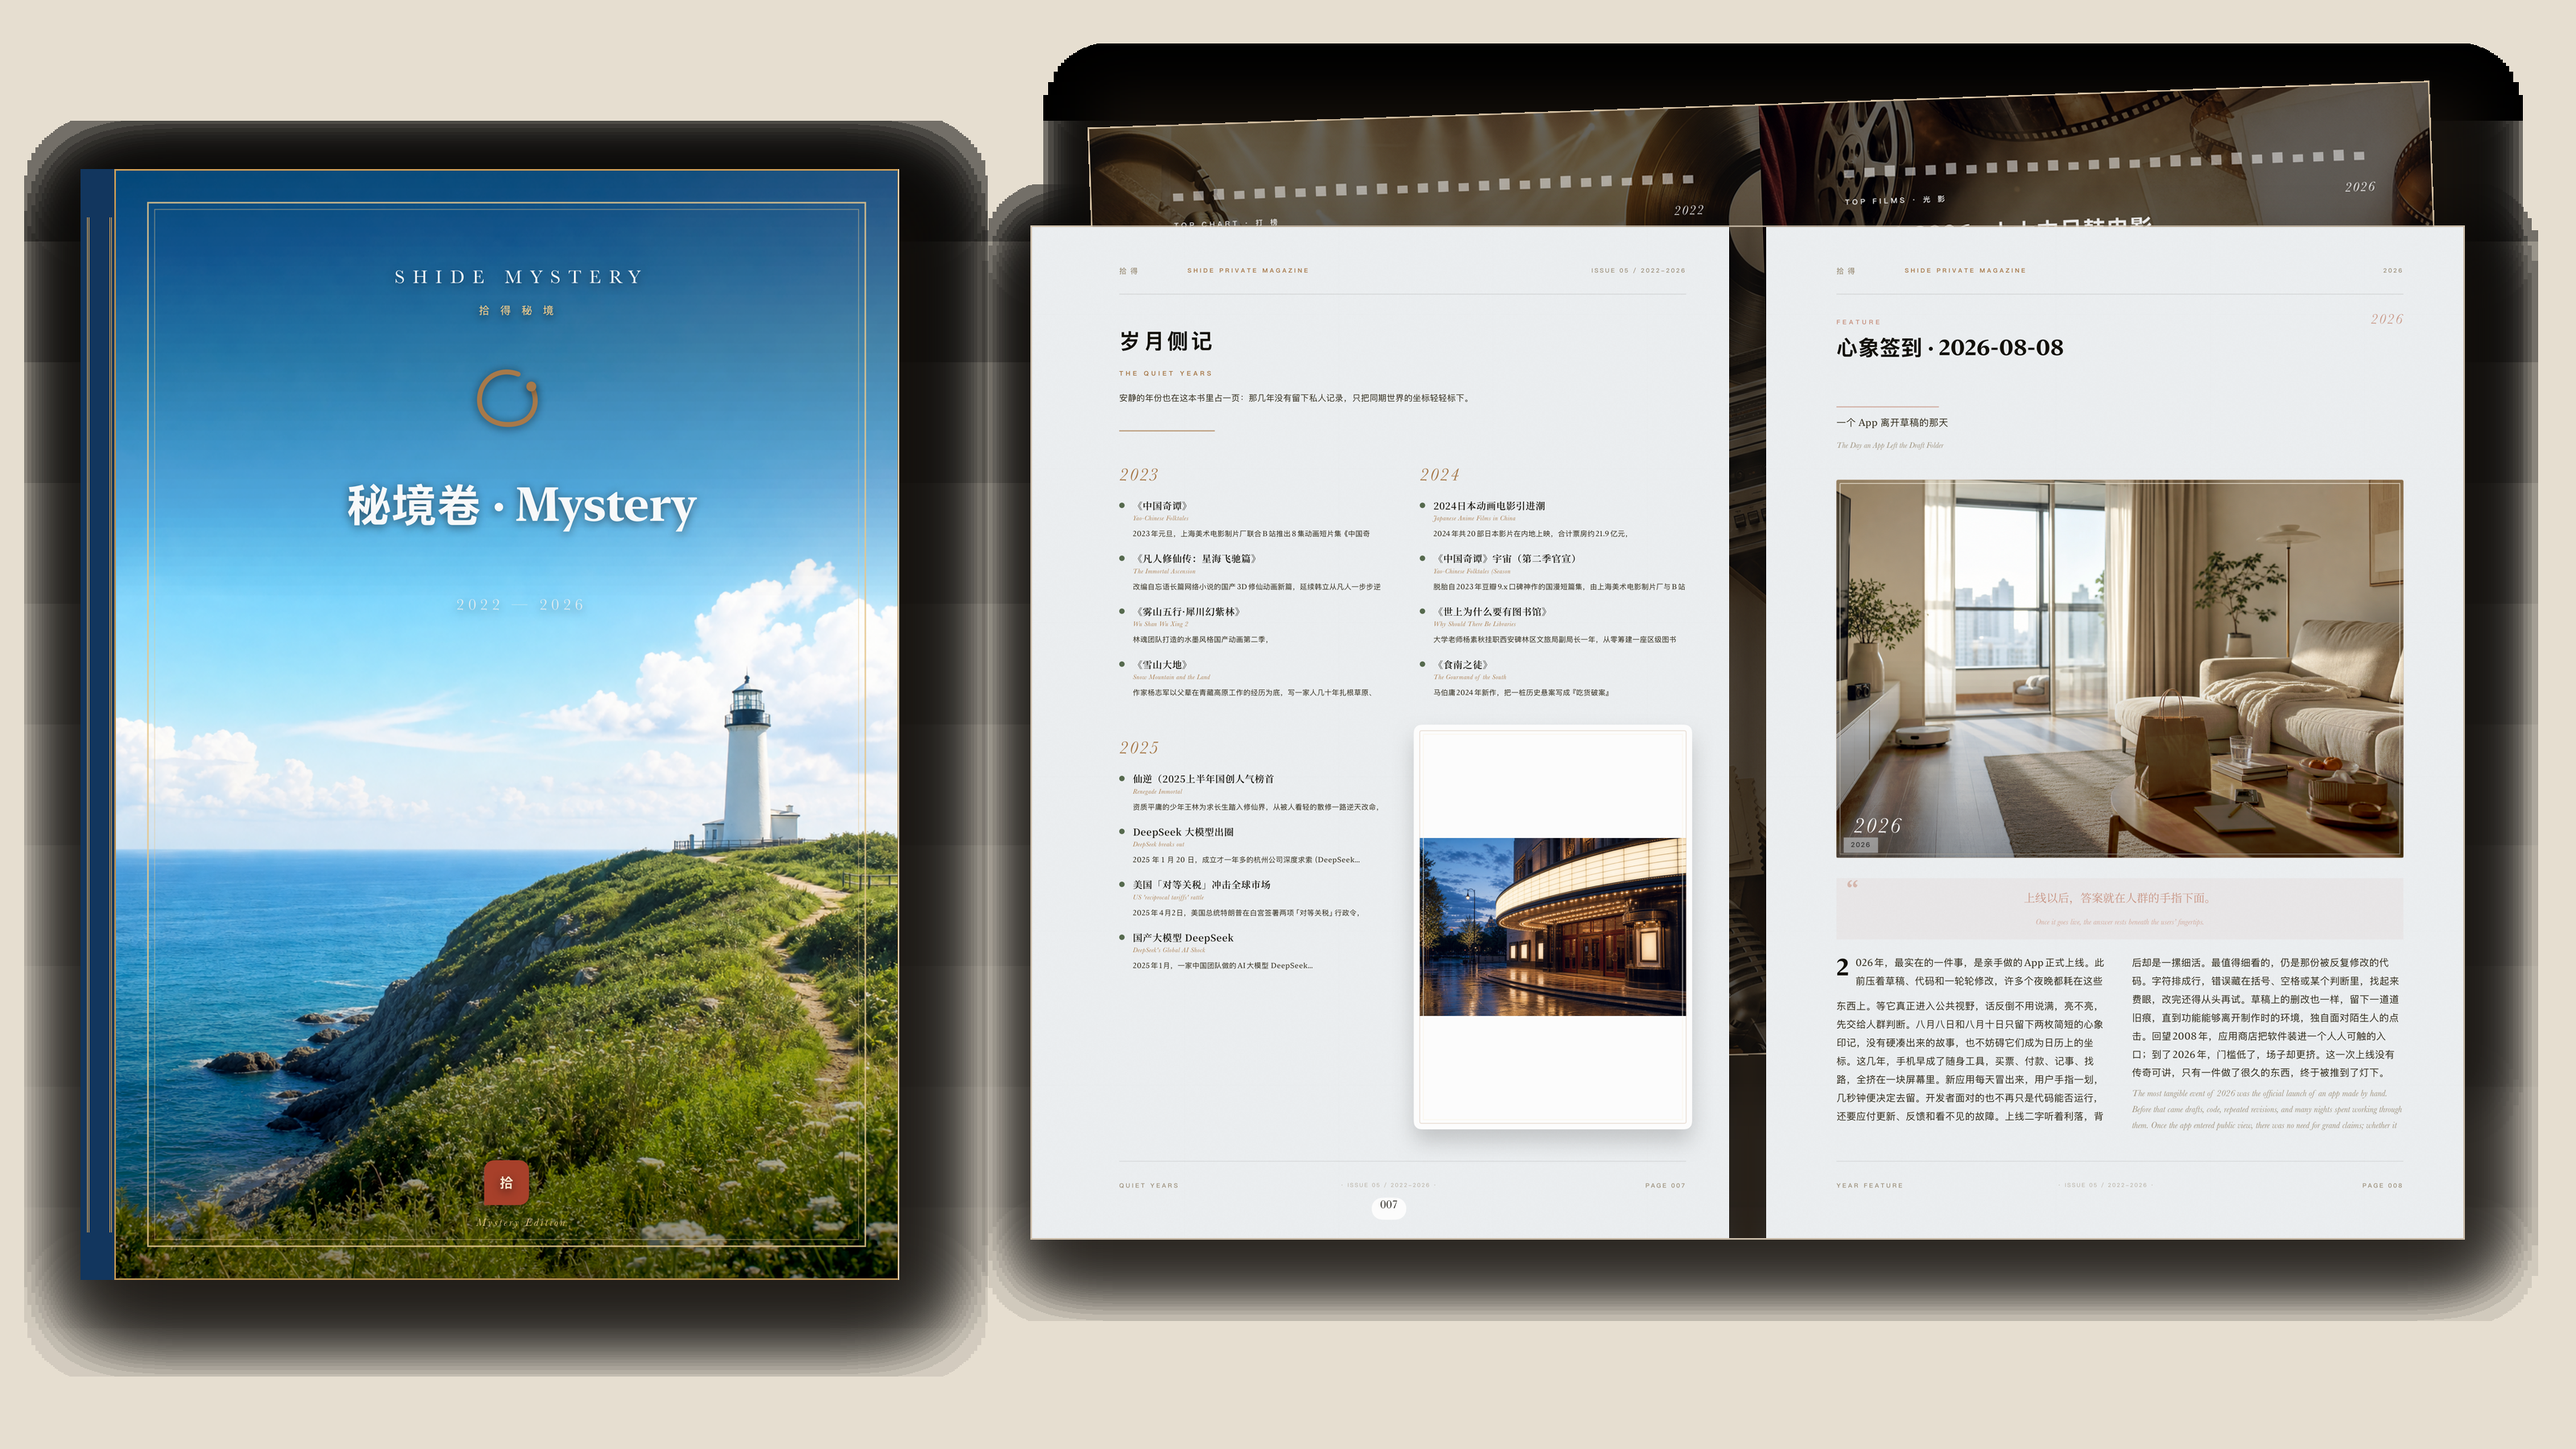
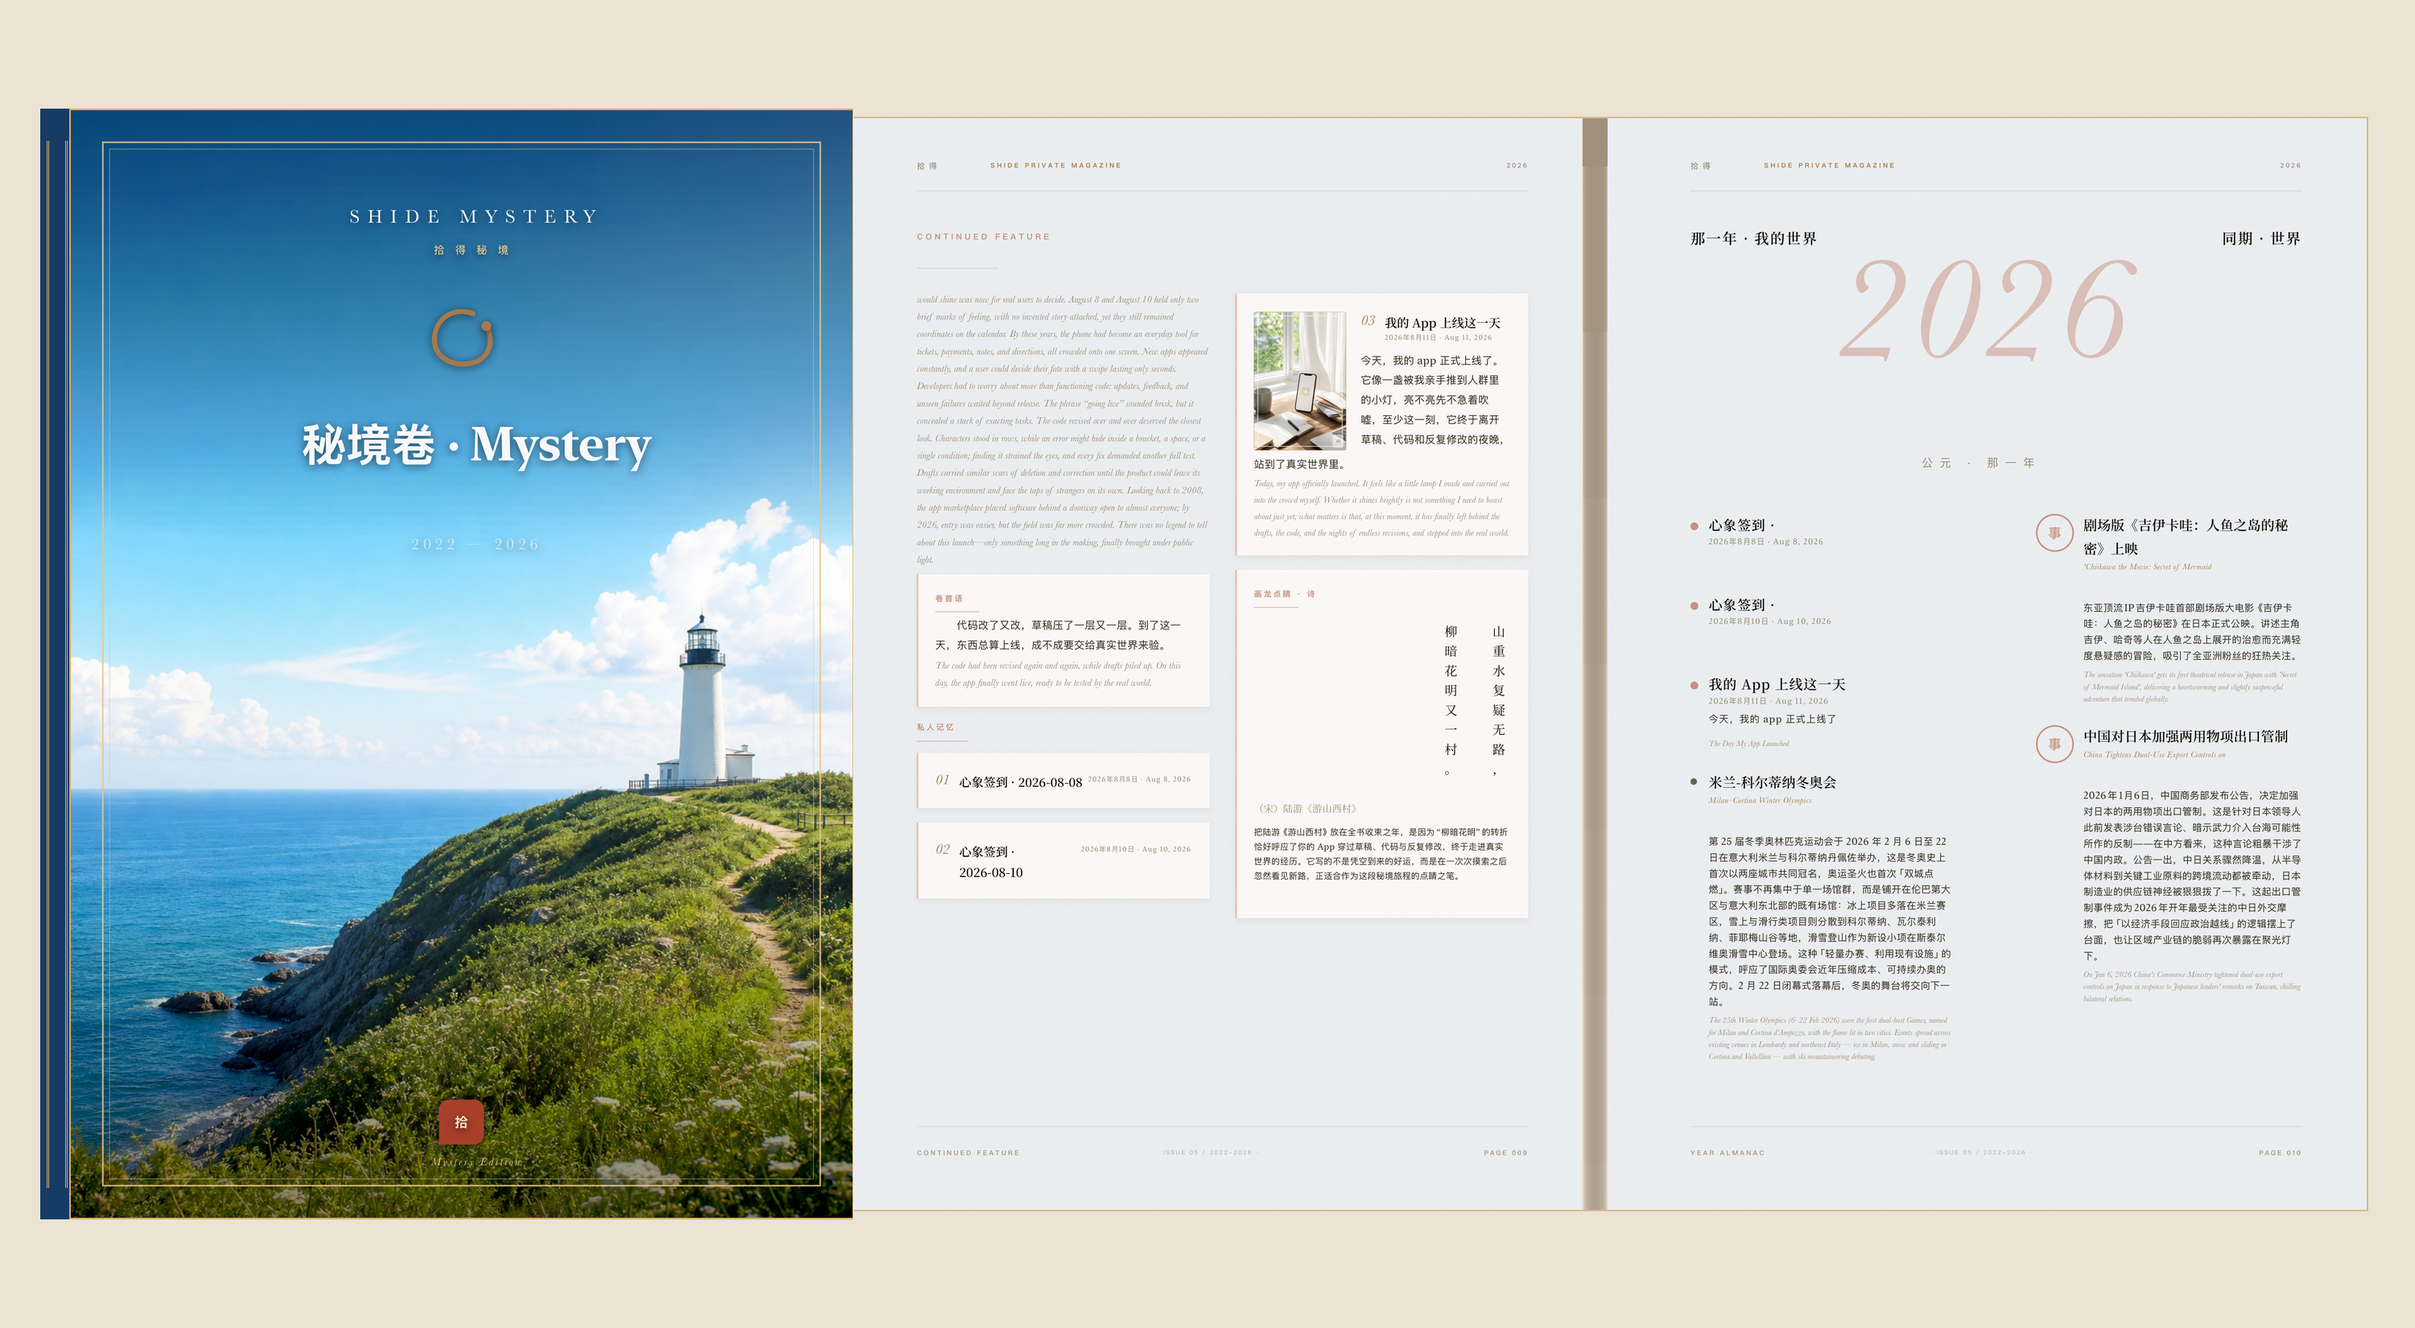
fix(ui): eliminate dark shadow artifacts in heirloom book spread and convert comment box into floating popover overlay to preserve card grid layout

diff --git a/spacetime-wall/index.html b/spacetime-wall/index.html
@@ -317,6 +317,7 @@
           </div>
 
           <!-- Bottom Action Bar -->
+          <!-- Bottom Action Bar -->
           <div class="flex items-center justify-between pt-2 border-t border-gold/20 text-[11px] font-mono text-ink-sub">
             <button @click="likePost(post)" class="hover:text-cinnabar transition flex items-center gap-1.5 group/btn relative">
               <span class="group-hover/btn:scale-125 transition-transform">❤</span>
@@ -326,42 +327,65 @@
                 印
               </span>
             </button>
-            <button @click="toggleCommentBox(post.id)" class="hover:text-navy transition flex items-center gap-1 px-2 py-0.5 rounded hover:bg-gold/15">
+            <button @click="toggleCommentBox(post.id)" class="transition flex items-center gap-1 px-2.5 py-1 rounded-lg"
+              :class="activeCommentPostId === post.id ? 'bg-gold/25 text-navy font-bold ring-1 ring-gold/50' : 'hover:bg-gold/15 text-stone-600 hover:text-navy'">
               <span>💬</span>
               <span>{{ (post.comments && post.comments.length) ? post.comments.length + ' 条回帖' : '回帖' }}</span>
+              <span class="text-[9px]">{{ activeCommentPostId === post.id ? '▲' : '▼' }}</span>
             </button>
           </div>
 
-          <!-- 展开已有回帖列表 (Existing Comments List) -->
-          <div v-if="post.comments && post.comments.length > 0" class="mt-2.5 pt-2.5 border-t border-dashed border-gold/30 space-y-2 bg-paper/60 p-2.5 rounded-xl text-xs">
-            <div v-for="c in post.comments" :key="c.id" class="flex items-start gap-2">
-              <span class="text-sm flex-shrink-0">{{ c.avatar || '🏮' }}</span>
-              <div class="flex-1 min-w-0">
-                <div class="flex items-center justify-between text-[10px] font-mono text-ink-sub">
-                  <span class="font-bold text-navy">{{ c.author }}</span>
+          <!-- 悬浮式回帖展开抽屉 (Floating Reply Popover - 绝对定位浮于下方，不改变网格高度与排版) -->
+          <div v-if="activeCommentPostId === post.id" 
+            class="absolute left-0 right-0 top-[calc(100%+8px)] z-40 bg-white/95 backdrop-blur-md rounded-2xl p-4 shadow-2xl border-2 border-gold/40 space-y-3">
+            
+            <!-- 抽屉头部 -->
+            <div class="flex items-center justify-between border-b border-gold/20 pb-2">
+              <span class="text-xs font-serif font-bold text-navy flex items-center gap-1.5">
+                <span>💬</span>
+                <span>时代回帖互动 ({{ (post.comments && post.comments.length) || 0 }})</span>
+              </span>
+              <button @click="toggleCommentBox(post.id)" class="w-5 h-5 rounded-full hover:bg-stone-100 flex items-center justify-center text-stone-400 hover:text-navy text-xs font-mono transition">
+                ✕
+              </button>
+            </div>
+
+            <!-- 已有回帖滚动列表 -->
+            <div v-if="post.comments && post.comments.length > 0" class="max-h-48 overflow-y-auto space-y-2.5 pr-1">
+              <div v-for="c in post.comments" :key="c.id" class="bg-paper/70 p-2.5 rounded-xl border border-gold/20 text-xs">
+                <div class="flex items-center justify-between text-[10px] font-mono text-ink-sub mb-1">
+                  <span class="font-bold text-navy flex items-center gap-1">
+                    <span>{{ c.avatar || '🏮' }}</span>
+                    <span>{{ c.author }}</span>
+                  </span>
                   <span>{{ c.timestamp }}</span>
                 </div>
-                <p class="font-serif text-stone-800 text-xs mt-0.5 leading-snug break-words">{{ c.content }}</p>
+                <p class="font-serif text-stone-800 text-xs leading-relaxed break-words">{{ c.content }}</p>
               </div>
             </div>
-          </div>
 
-          <!-- 行内回帖输入框 (Inline Comment Box) -->
-          <div v-if="activeCommentPostId === post.id" class="mt-2.5 pt-2 border-t border-gold/30 space-y-2">
-            <div class="flex flex-col sm:flex-row gap-2">
-              <input type="text" v-model="commentAuthorInput" placeholder="你的留名（选填）"
-                class="sm:w-1/3 text-[11px] font-mono px-2.5 py-1.5 rounded-lg border border-stone-300 bg-paper focus:outline-none focus:border-navy">
-              <div class="flex-1 flex gap-1.5">
-                <input type="text" v-model="commentTextInput" @keyup.enter="submitComment(post)" placeholder="写下你的回帖与共鸣..."
-                  class="flex-1 text-[11px] font-serif px-2.5 py-1.5 rounded-lg border border-stone-300 bg-paper focus:outline-none focus:border-navy">
-                <button @click="submitComment(post)" class="bg-navy hover:bg-navy-deep text-white text-[11px] font-mono px-3 py-1.5 rounded-lg font-bold transition flex-shrink-0">
-                  发送
-                </button>
-              </div>
+            <div v-else class="text-center py-2 text-[11px] font-serif text-stone-400">
+              暂无回帖，抢首楼留下你的共鸣吧~
             </div>
-            <p v-if="commentError && activeCommentPostId === post.id" class="text-[10px] font-serif text-amber-700 bg-amber-50 p-1.5 rounded border border-amber-200">
-              ⚠ {{ commentError }}
-            </p>
+
+            <!-- 行内输入框 -->
+            <div class="pt-2 border-t border-gold/20 space-y-2">
+              <div class="flex flex-col sm:flex-row gap-2">
+                <input type="text" v-model="commentAuthorInput" placeholder="留名（选填，默认时空漫步者）"
+                  class="sm:w-1/3 text-[11px] font-mono px-2.5 py-1.5 rounded-lg border border-stone-300 bg-paper focus:outline-none focus:border-navy">
+                <div class="flex-1 flex gap-1.5">
+                  <input type="text" v-model="commentTextInput" @keyup.enter="submitComment(post)" placeholder="写下你的回帖与共鸣..."
+                    class="flex-1 text-[11px] font-serif px-2.5 py-1.5 rounded-lg border border-stone-300 bg-paper focus:outline-none focus:border-navy">
+                  <button @click="submitComment(post)" class="bg-navy hover:bg-navy-deep text-white text-[11px] font-mono px-3.5 py-1.5 rounded-lg font-bold transition flex-shrink-0 shadow-sm">
+                    发送
+                  </button>
+                </div>
+              </div>
+              <p v-if="commentError" class="text-[10px] font-serif text-amber-700 bg-amber-50 p-1.5 rounded border border-amber-200">
+                ⚠ {{ commentError }}
+              </p>
+            </div>
+
           </div>
 
         </div>

diff --git a/index.html b/index.html
@@ -826,42 +826,65 @@
                 印
               </span>
             </button>
-            <button @click="toggleCommentBox(post.id)" class="hover:text-navy transition flex items-center gap-1 px-2 py-0.5 rounded hover:bg-gold/15">
+            <button @click="toggleCommentBox(post.id)" class="transition flex items-center gap-1 px-2.5 py-1 rounded-lg"
+              :class="activeCommentPostId === post.id ? 'bg-gold/25 text-navy font-bold ring-1 ring-gold/50' : 'hover:bg-gold/15 text-stone-600 hover:text-navy'">
               <span>💬</span>
               <span>{{ (post.comments && post.comments.length) ? post.comments.length + ' 条回帖' : '回帖' }}</span>
+              <span class="text-[9px]">{{ activeCommentPostId === post.id ? '▲' : '▼' }}</span>
             </button>
           </div>
 
-          <!-- 展开已有回帖列表 (Existing Comments List) -->
-          <div v-if="post.comments && post.comments.length > 0" class="mt-2.5 pt-2.5 border-t border-dashed border-gold/30 space-y-2 bg-paper/60 p-2.5 rounded-xl text-xs">
-            <div v-for="c in post.comments" :key="c.id" class="flex items-start gap-2">
-              <span class="text-sm flex-shrink-0">{{ c.avatar || '🏮' }}</span>
-              <div class="flex-1 min-w-0">
-                <div class="flex items-center justify-between text-[10px] font-mono text-ink-sub">
-                  <span class="font-bold text-navy">{{ c.author }}</span>
+          <!-- 悬浮式回帖展开抽屉 (Floating Reply Popover - 绝对定位浮于下方，不破坏网格卡片等高排版) -->
+          <div v-if="activeCommentPostId === post.id" 
+            class="absolute left-0 right-0 top-[calc(100%+8px)] z-40 bg-white/95 backdrop-blur-md rounded-2xl p-4 shadow-2xl border-2 border-gold/40 space-y-3">
+            
+            <!-- 抽屉头部 -->
+            <div class="flex items-center justify-between border-b border-gold/20 pb-2">
+              <span class="text-xs font-serif font-bold text-navy flex items-center gap-1.5">
+                <span>💬</span>
+                <span>时代回帖互动 ({{ (post.comments && post.comments.length) || 0 }})</span>
+              </span>
+              <button @click="toggleCommentBox(post.id)" class="w-5 h-5 rounded-full hover:bg-stone-100 flex items-center justify-center text-stone-400 hover:text-navy text-xs font-mono transition">
+                ✕
+              </button>
+            </div>
+
+            <!-- 已有回帖滚动列表 -->
+            <div v-if="post.comments && post.comments.length > 0" class="max-h-48 overflow-y-auto space-y-2.5 pr-1">
+              <div v-for="c in post.comments" :key="c.id" class="bg-paper/70 p-2.5 rounded-xl border border-gold/20 text-xs">
+                <div class="flex items-center justify-between text-[10px] font-mono text-ink-sub mb-1">
+                  <span class="font-bold text-navy flex items-center gap-1">
+                    <span>{{ c.avatar || '🏮' }}</span>
+                    <span>{{ c.author }}</span>
+                  </span>
                   <span>{{ c.timestamp }}</span>
                 </div>
-                <p class="font-serif text-stone-800 text-xs mt-0.5 leading-snug break-words">{{ c.content }}</p>
+                <p class="font-serif text-stone-800 text-xs leading-relaxed break-words">{{ c.content }}</p>
               </div>
             </div>
-          </div>
 
-          <!-- 行内回帖输入框 (Inline Comment Box) -->
-          <div v-if="activeCommentPostId === post.id" class="mt-2.5 pt-2 border-t border-gold/30 space-y-2">
-            <div class="flex flex-col sm:flex-row gap-2">
-              <input type="text" v-model="commentAuthorInput" placeholder="你的留名（选填）"
-                class="sm:w-1/3 text-[11px] font-mono px-2.5 py-1.5 rounded-lg border border-stone-300 bg-paper focus:outline-none focus:border-navy">
-              <div class="flex-1 flex gap-1.5">
-                <input type="text" v-model="commentTextInput" @keyup.enter="submitComment(post)" placeholder="写下你的回帖与共鸣..."
-                  class="flex-1 text-[11px] font-serif px-2.5 py-1.5 rounded-lg border border-stone-300 bg-paper focus:outline-none focus:border-navy">
-                <button @click="submitComment(post)" class="bg-navy hover:bg-navy-deep text-white text-[11px] font-mono px-3 py-1.5 rounded-lg font-bold transition flex-shrink-0">
-                  发送
-                </button>
-              </div>
+            <div v-else class="text-center py-2 text-[11px] font-serif text-stone-400">
+              暂无回帖，抢首楼留下你的共鸣吧~
             </div>
-            <p v-if="commentError && activeCommentPostId === post.id" class="text-[10px] font-serif text-amber-700 bg-amber-50 p-1.5 rounded border border-amber-200">
-              ⚠ {{ commentError }}
-            </p>
+
+            <!-- 行内输入框 -->
+            <div class="pt-2 border-t border-gold/20 space-y-2">
+              <div class="flex flex-col sm:flex-row gap-2">
+                <input type="text" v-model="commentAuthorInput" placeholder="留名（选填，默认时空漫步者）"
+                  class="sm:w-1/3 text-[11px] font-mono px-2.5 py-1.5 rounded-lg border border-stone-300 bg-paper focus:outline-none focus:border-navy">
+                <div class="flex-1 flex gap-1.5">
+                  <input type="text" v-model="commentTextInput" @keyup.enter="submitComment(post)" placeholder="写下你的回帖与共鸣..."
+                    class="flex-1 text-[11px] font-serif px-2.5 py-1.5 rounded-lg border border-stone-300 bg-paper focus:outline-none focus:border-navy">
+                  <button @click="submitComment(post)" class="bg-navy hover:bg-navy-deep text-white text-[11px] font-mono px-3.5 py-1.5 rounded-lg font-bold transition flex-shrink-0 shadow-sm">
+                    发送
+                  </button>
+                </div>
+              </div>
+              <p v-if="commentError" class="text-[10px] font-serif text-amber-700 bg-amber-50 p-1.5 rounded border border-amber-200">
+                ⚠ {{ commentError }}
+              </p>
+            </div>
+
           </div>
 
         </div>
